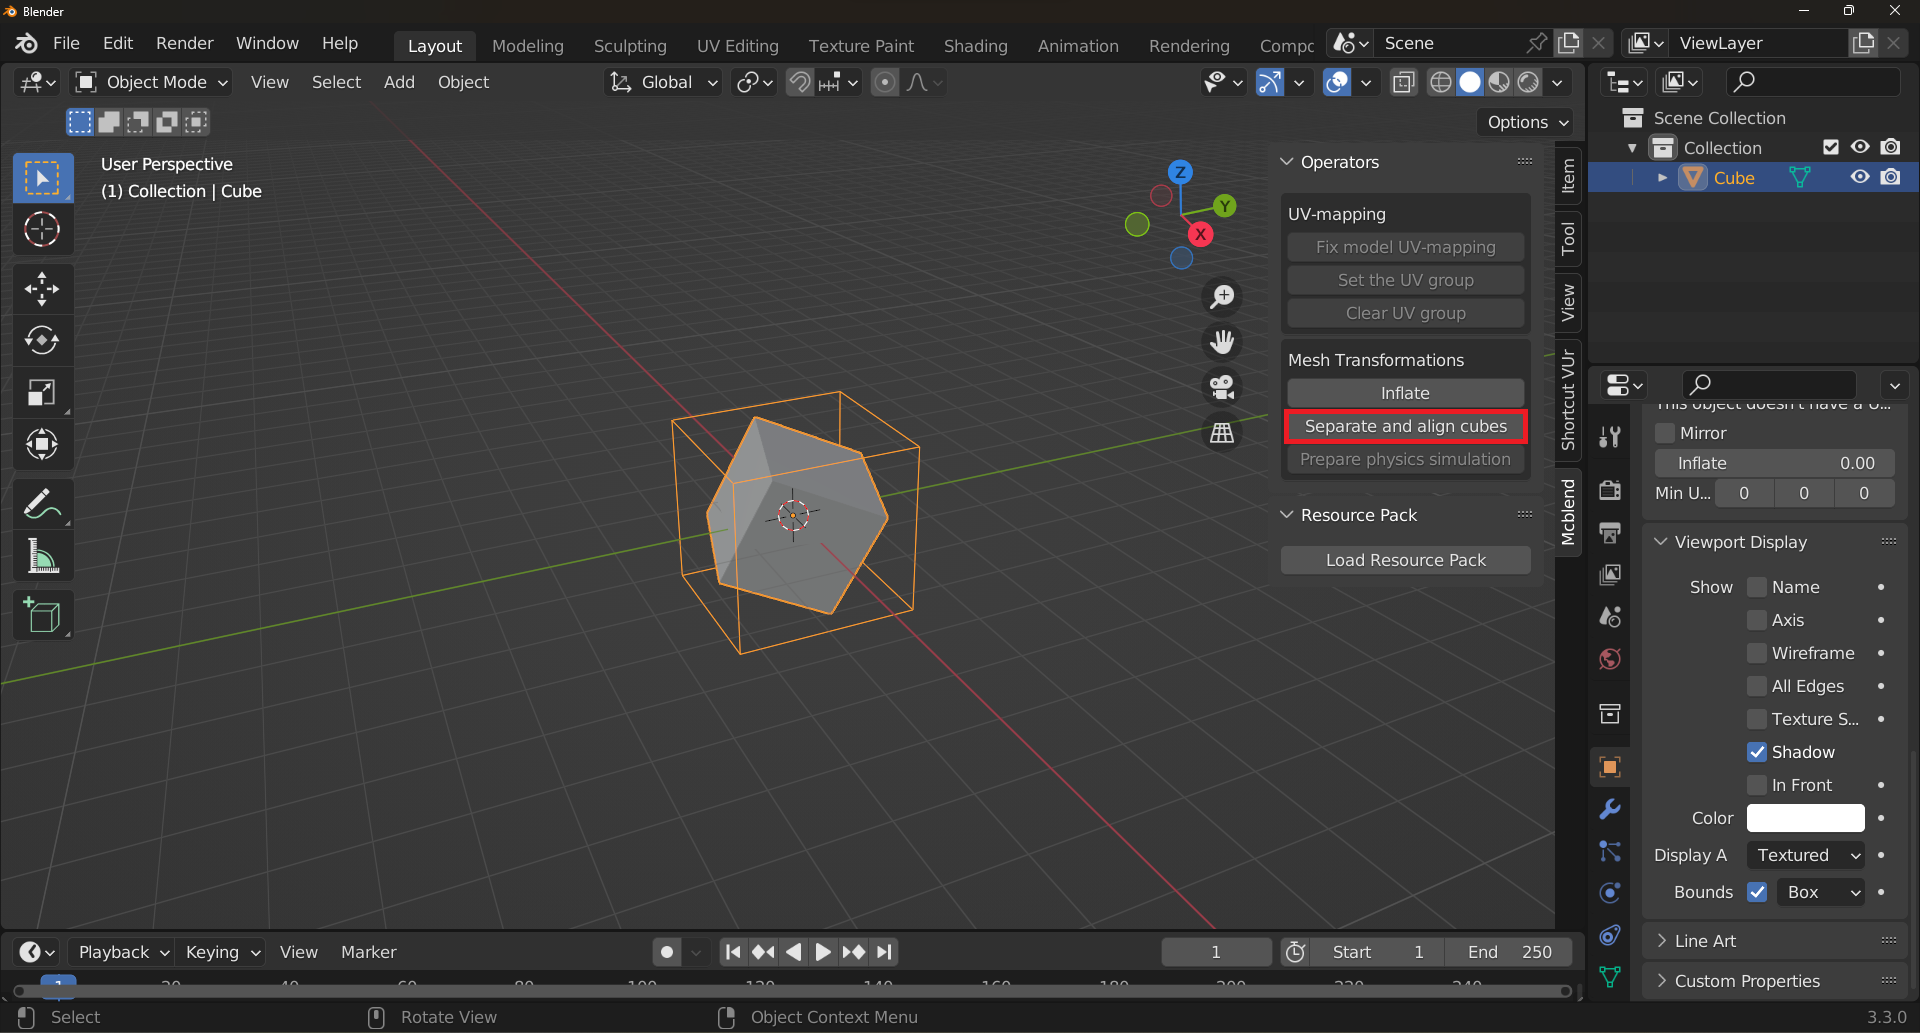
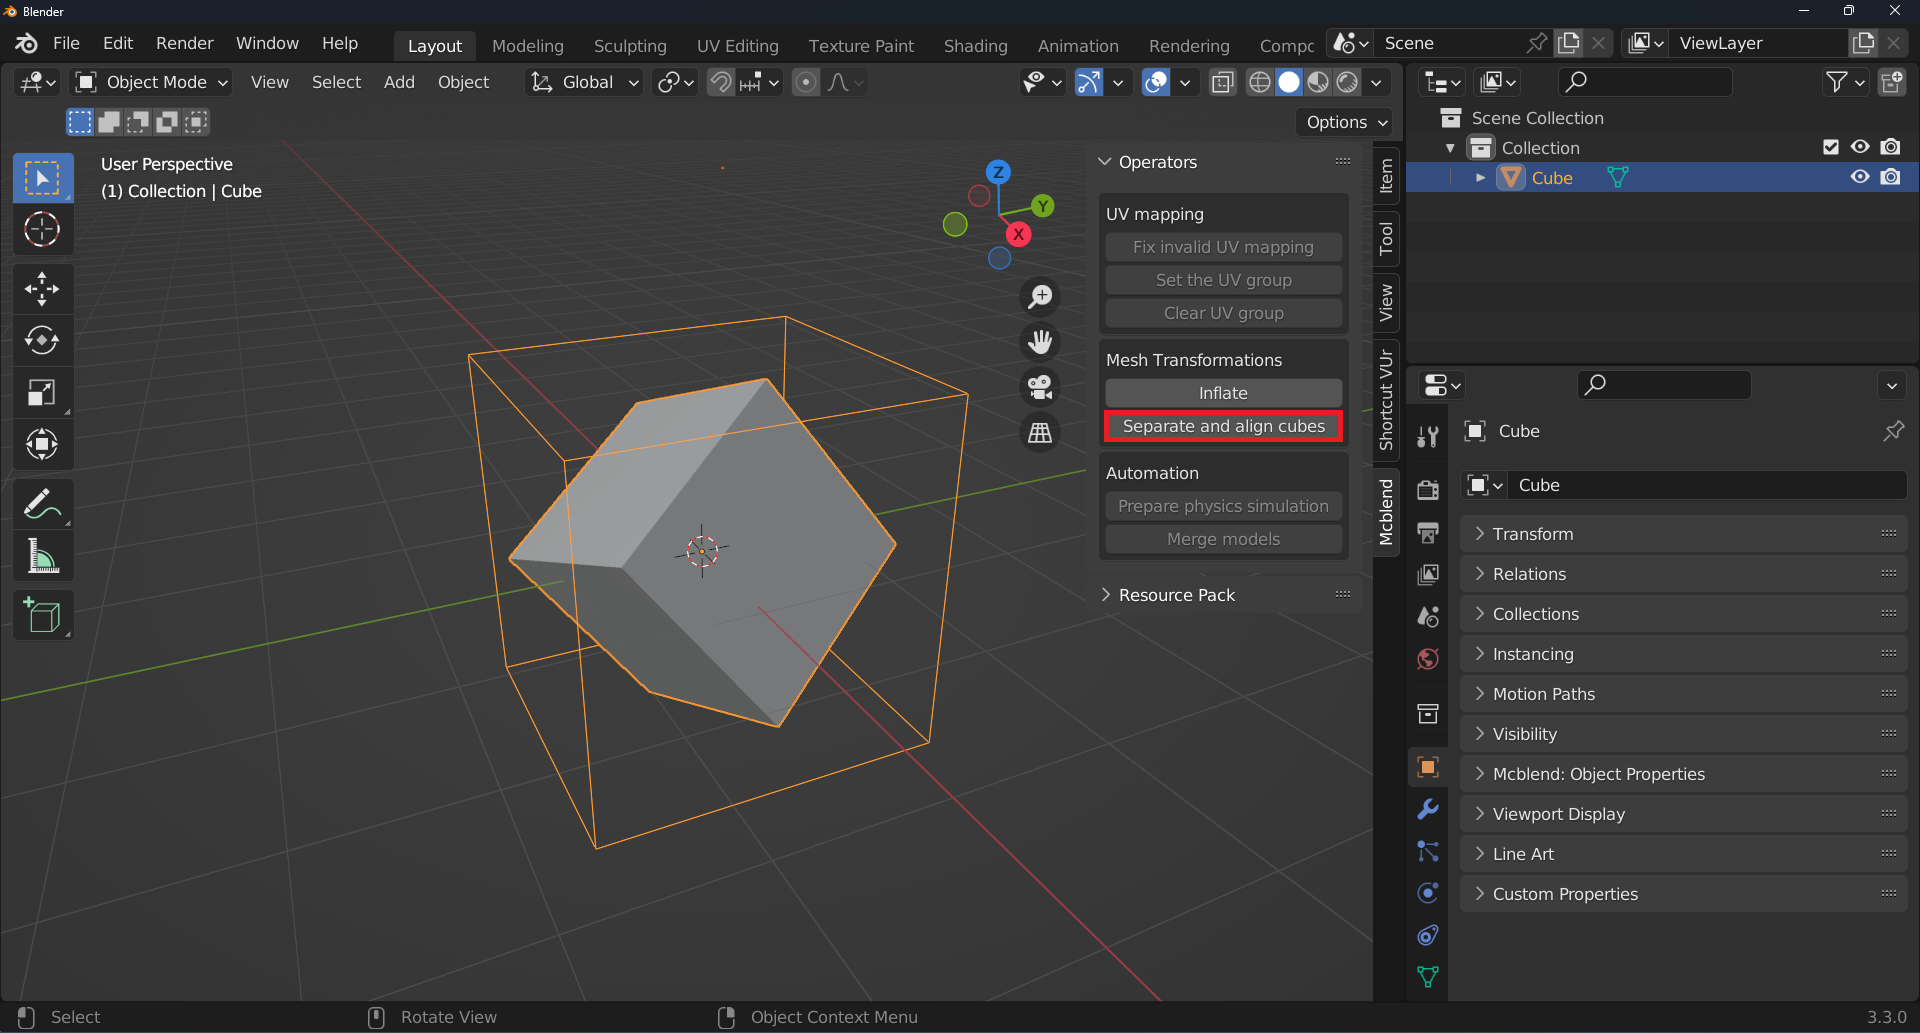
Updated the docs to show the new UI.

diff --git a/mcblend/operator.py b/mcblend/operator.py
@@ -1938,13 +1938,13 @@ class MCBLEND_OT_MergeModels(Operator):
     bl_options = {'REGISTER', 'UNDO'}
     bl_description = (
         "Merge models of all selected armatures and create new textures for "
-        "them."
+        "them"
     )
 
     def draw(self, context):
         layout = self.layout
         layout.label(
-            text="You're about to merge multiple using their main textures.")
+            text="You're about to merge multiple using their main textures")
         row = layout.row()
         # layout.operator("mcblend.fix_uv")
         selected_objects = get_selected_objects(context)

diff --git a/docs/gui/3d_viewport_sidebar.md b/docs/gui/3d_viewport_sidebar.md
@@ -8,14 +8,18 @@ The 3D viewport sidebar includes a new `Mcblend` section, which has two panels. 
 
 ## Operators
 ### UV mapping panel
-- `Fix invalid UV mapping` - operator used to fix invalid UV mapping of the model's cuboids. All faces of the cuboids in the Minecraft model must be rectangular and have a certain rotation. This operator ensures that these conditions are true.
-- `Set the UV group` - adds the selected objects to one of the existing UV groups.
+- `Fix invalid UV mapping` - Operator used to fix invalid UV mapping of the model's cuboids. All faces of the cuboids in the Minecraft model must be rectangular and have a certain rotation. This operator ensures that these conditions are true.
+- `Set the UV group` - Adds the selected objects to one of the existing UV groups.
 - `Clear UV group` - It removes selected objects from UV groups.
 
 ### Mesh Transformations panel
+
 - `Inflate` - Inflates the selected object using Minecraft's inflate property. Running this operator opens a panel in the bottom left corner of the 3D viewport. You can use this panel to adjust the `inflate` value.
 - `Separate and align cubes` - Detects cubes grouped in a single mesh and splits them into separate objects. Unlike the vanilla Blender operator (`Mesh -> Separate`), the `Separate and align cubes` operator from Mcblend is designed for working with cuboids and can detect their rotations.
+
+## Automation panel
 - `Prepare physics simulation` - Automatically creates objects, which can be used for physics simulation.
+- `Merge models` - Merges simple models, creates a common texture file for them and moves their UV coordinates to the correct position on the new texture.
 
 ## Resurce Pack panel
 The Resource Pack panel in Mcblend allows you to connect a resource pack to your project. Once you open Blender, you will see a single button called `Load Resource Pack`. This button loads information about the entities and attachable items that are available for import.
